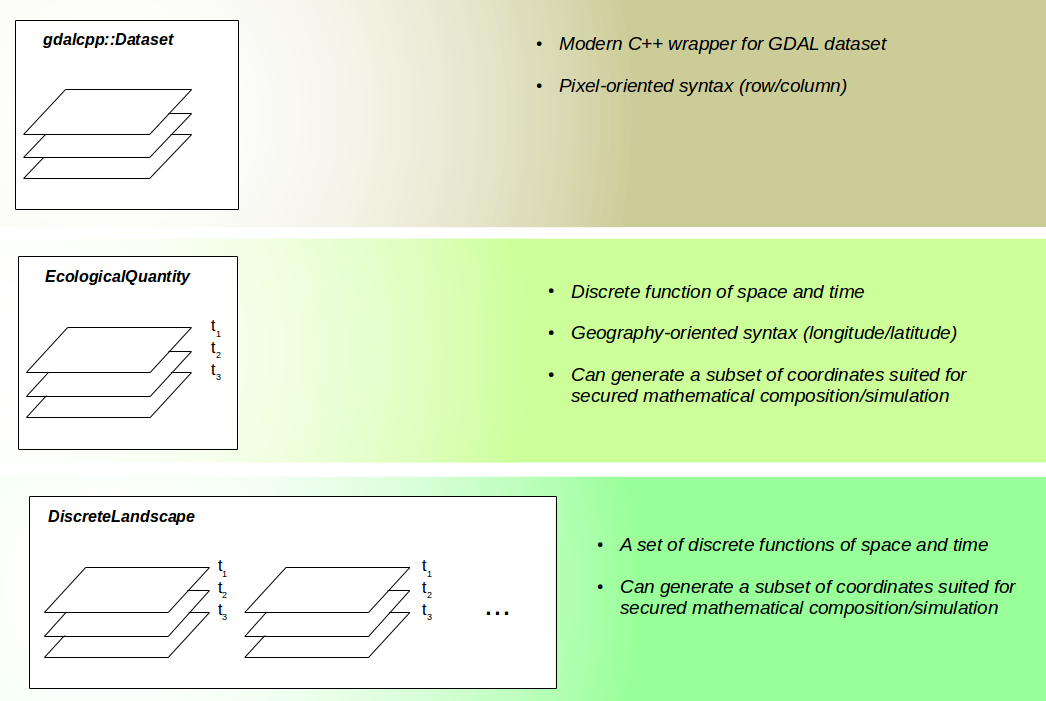
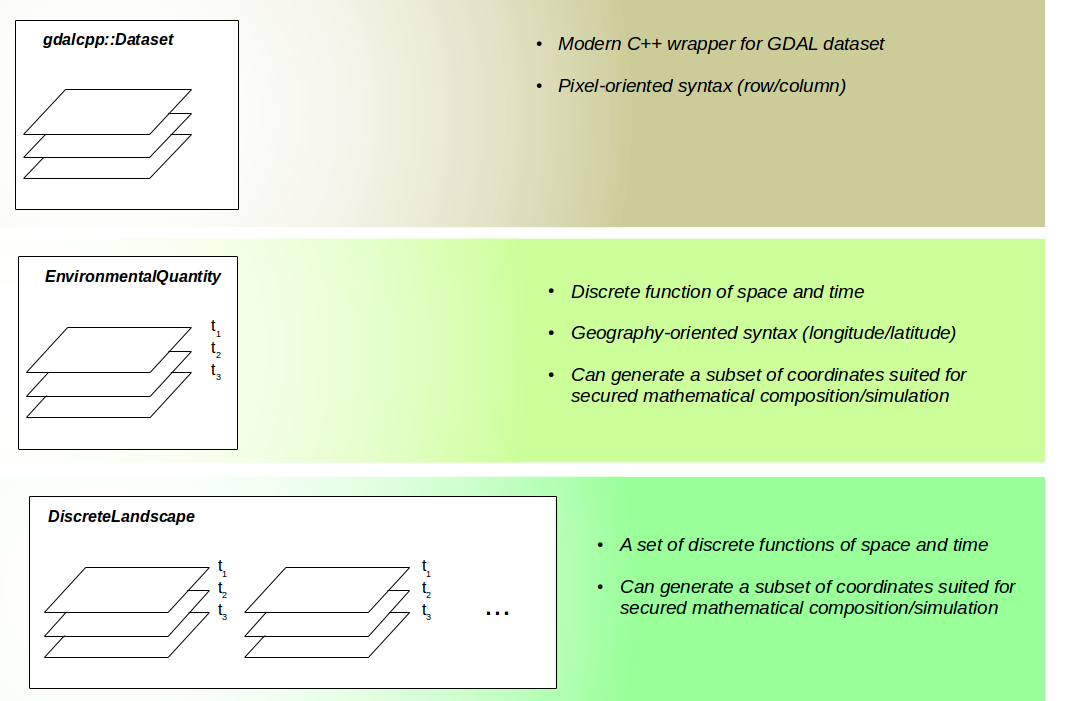
html regenerated

diff --git a/quetzalAPI/html/group__geography.html b/quetzalAPI/html/group__geography.html
@@ -124,8 +124,8 @@ Classes</h2></td></tr>
 geography module overview</div></div>
 <p> Key features of <a href="http://www.gdal.org/">GDAL</a> API are encapsulated in a mordern C++ wrapper class, the <a class="el" href="classgdalcpp_1_1_dataset.html">gdalcpp::Dataset</a> class, allowing to read data from raster files and perform basic operations. Geolocalization syntax is pixel-oriented (data are accessed by row and columns indices), which can can be confusing when manipulating spatial landscapes along with dispersal kernels (where distances need to be computed) and spatial genetic samples (where sampling coordinates are typically defined in latitude/longitude).</p>
 <p>For better harmonization with other features, GeographicCoordinates objects are used to represent latitude and longitude in decimal degrees and to compute great-circle distances in kilometers between two points.</p>
-<p>The EcologicalQuantity class adds a level of abstraction to <a class="el" href="classgdalcpp_1_1_dataset.html">gdalcpp::Dataset</a>, in order to represent a discrete function of space and time based on geographic coordinates. It allows to retrieve the coordinates of the cells centroids for which the value is defined at all times. This set can be used to represent the demic structure and to perform secured mathematical composition of ecological functions (for example using the expressive module).</p>
-<p>The DiscreteLandscape class represents an arbitrary number of ecological quantities on a discrete geographic space. It allows to retrieve lightweight function-objects representing the underlaying ecological quantities (candidates for function composition using expressive module). Similarly to the EcologicalQuantity class, it allows to retrieve a geographic definition space suited to modeling: the coordinates of the cells centroids for which a value is defined at all times for all quantities. </p>
+<p>The EnvironmentalQuantity class adds a level of abstraction to <a class="el" href="classgdalcpp_1_1_dataset.html">gdalcpp::Dataset</a>, in order to represent a discrete function of space and time based on geographic coordinates. It allows to retrieve the coordinates of the cells centroids for which the value is defined at all times. This set can be used to represent the demic structure and to perform secured mathematical composition of ecological functions (for example using the expressive module).</p>
+<p>The DiscreteLandscape class represents an arbitrary number of ecological quantities on a discrete geographic space. It allows to retrieve lightweight function-objects representing the underlaying ecological quantities (candidates for function composition using expressive module). Similarly to the EnvironmentalQuantity class, it allows to retrieve a geographic definition space suited to modeling: the coordinates of the cells centroids for which a value is defined at all times for all quantities. </p>
 </div><!-- contents -->
 </div><!-- doc-content -->
 <!-- start footer part -->
